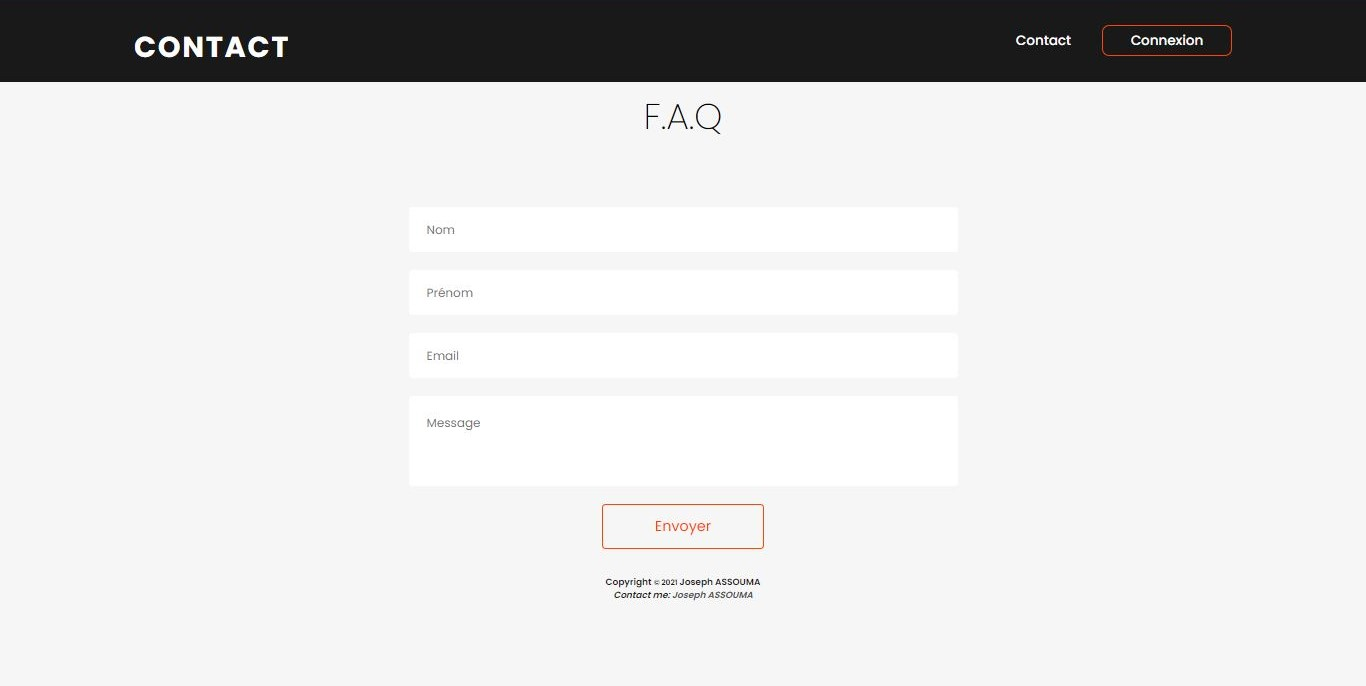
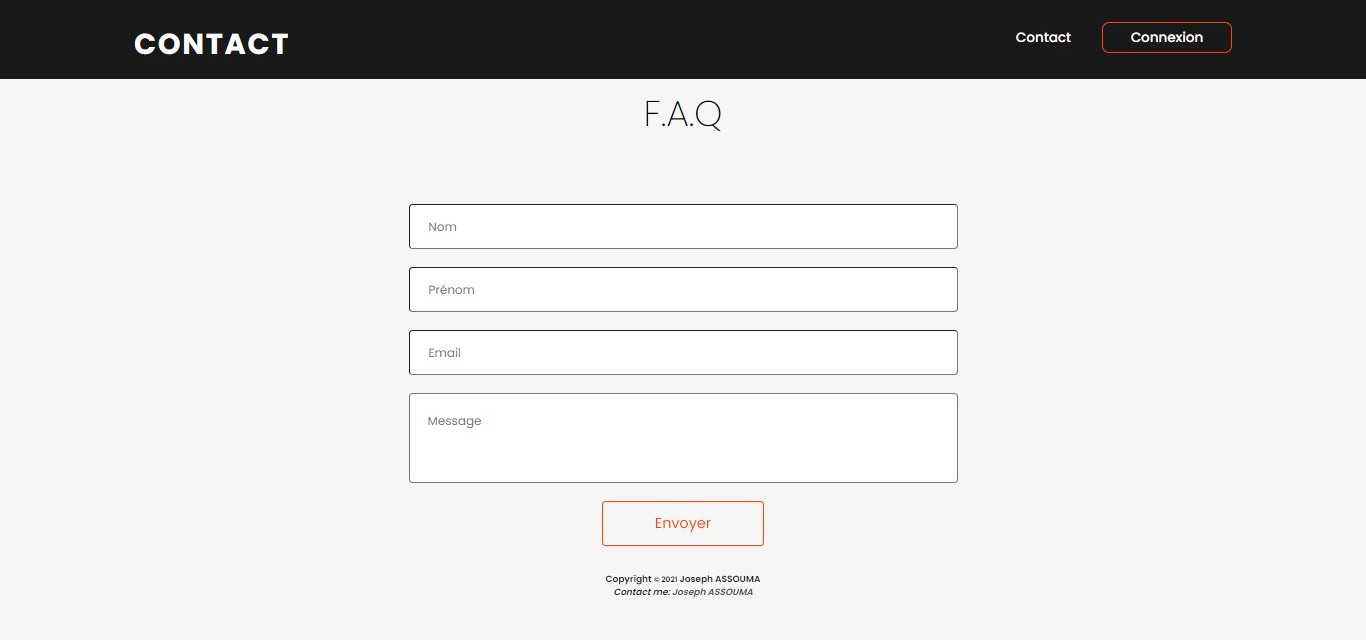
edit

diff --git a/asset/stylesheet/assouma.css b/asset/stylesheet/assouma.css
@@ -135,7 +135,6 @@ body {
   height: 50px;
   margin: 10px 0;
   background-color: #fff;
-  border: none;
   outline: none;
   padding: 20px;
   border-radius: 4px;

diff --git a/README.md b/README.md
@@ -25,7 +25,7 @@ J'ai alors développé alors 4 pages à savoir:
 Voici quelques screenshots du site:
 
 <div>
-    <img src="image/index.JPG" alt="Image page index" heigth="250"/>
+    <img src="image/index.JPG" alt="Image page index"/>
     <img src="image/login.JPG" alt="Image page connexion">
     <img src="image/affichageQuestion.JPG" alt="Image page afichage des questions">
 </div>
